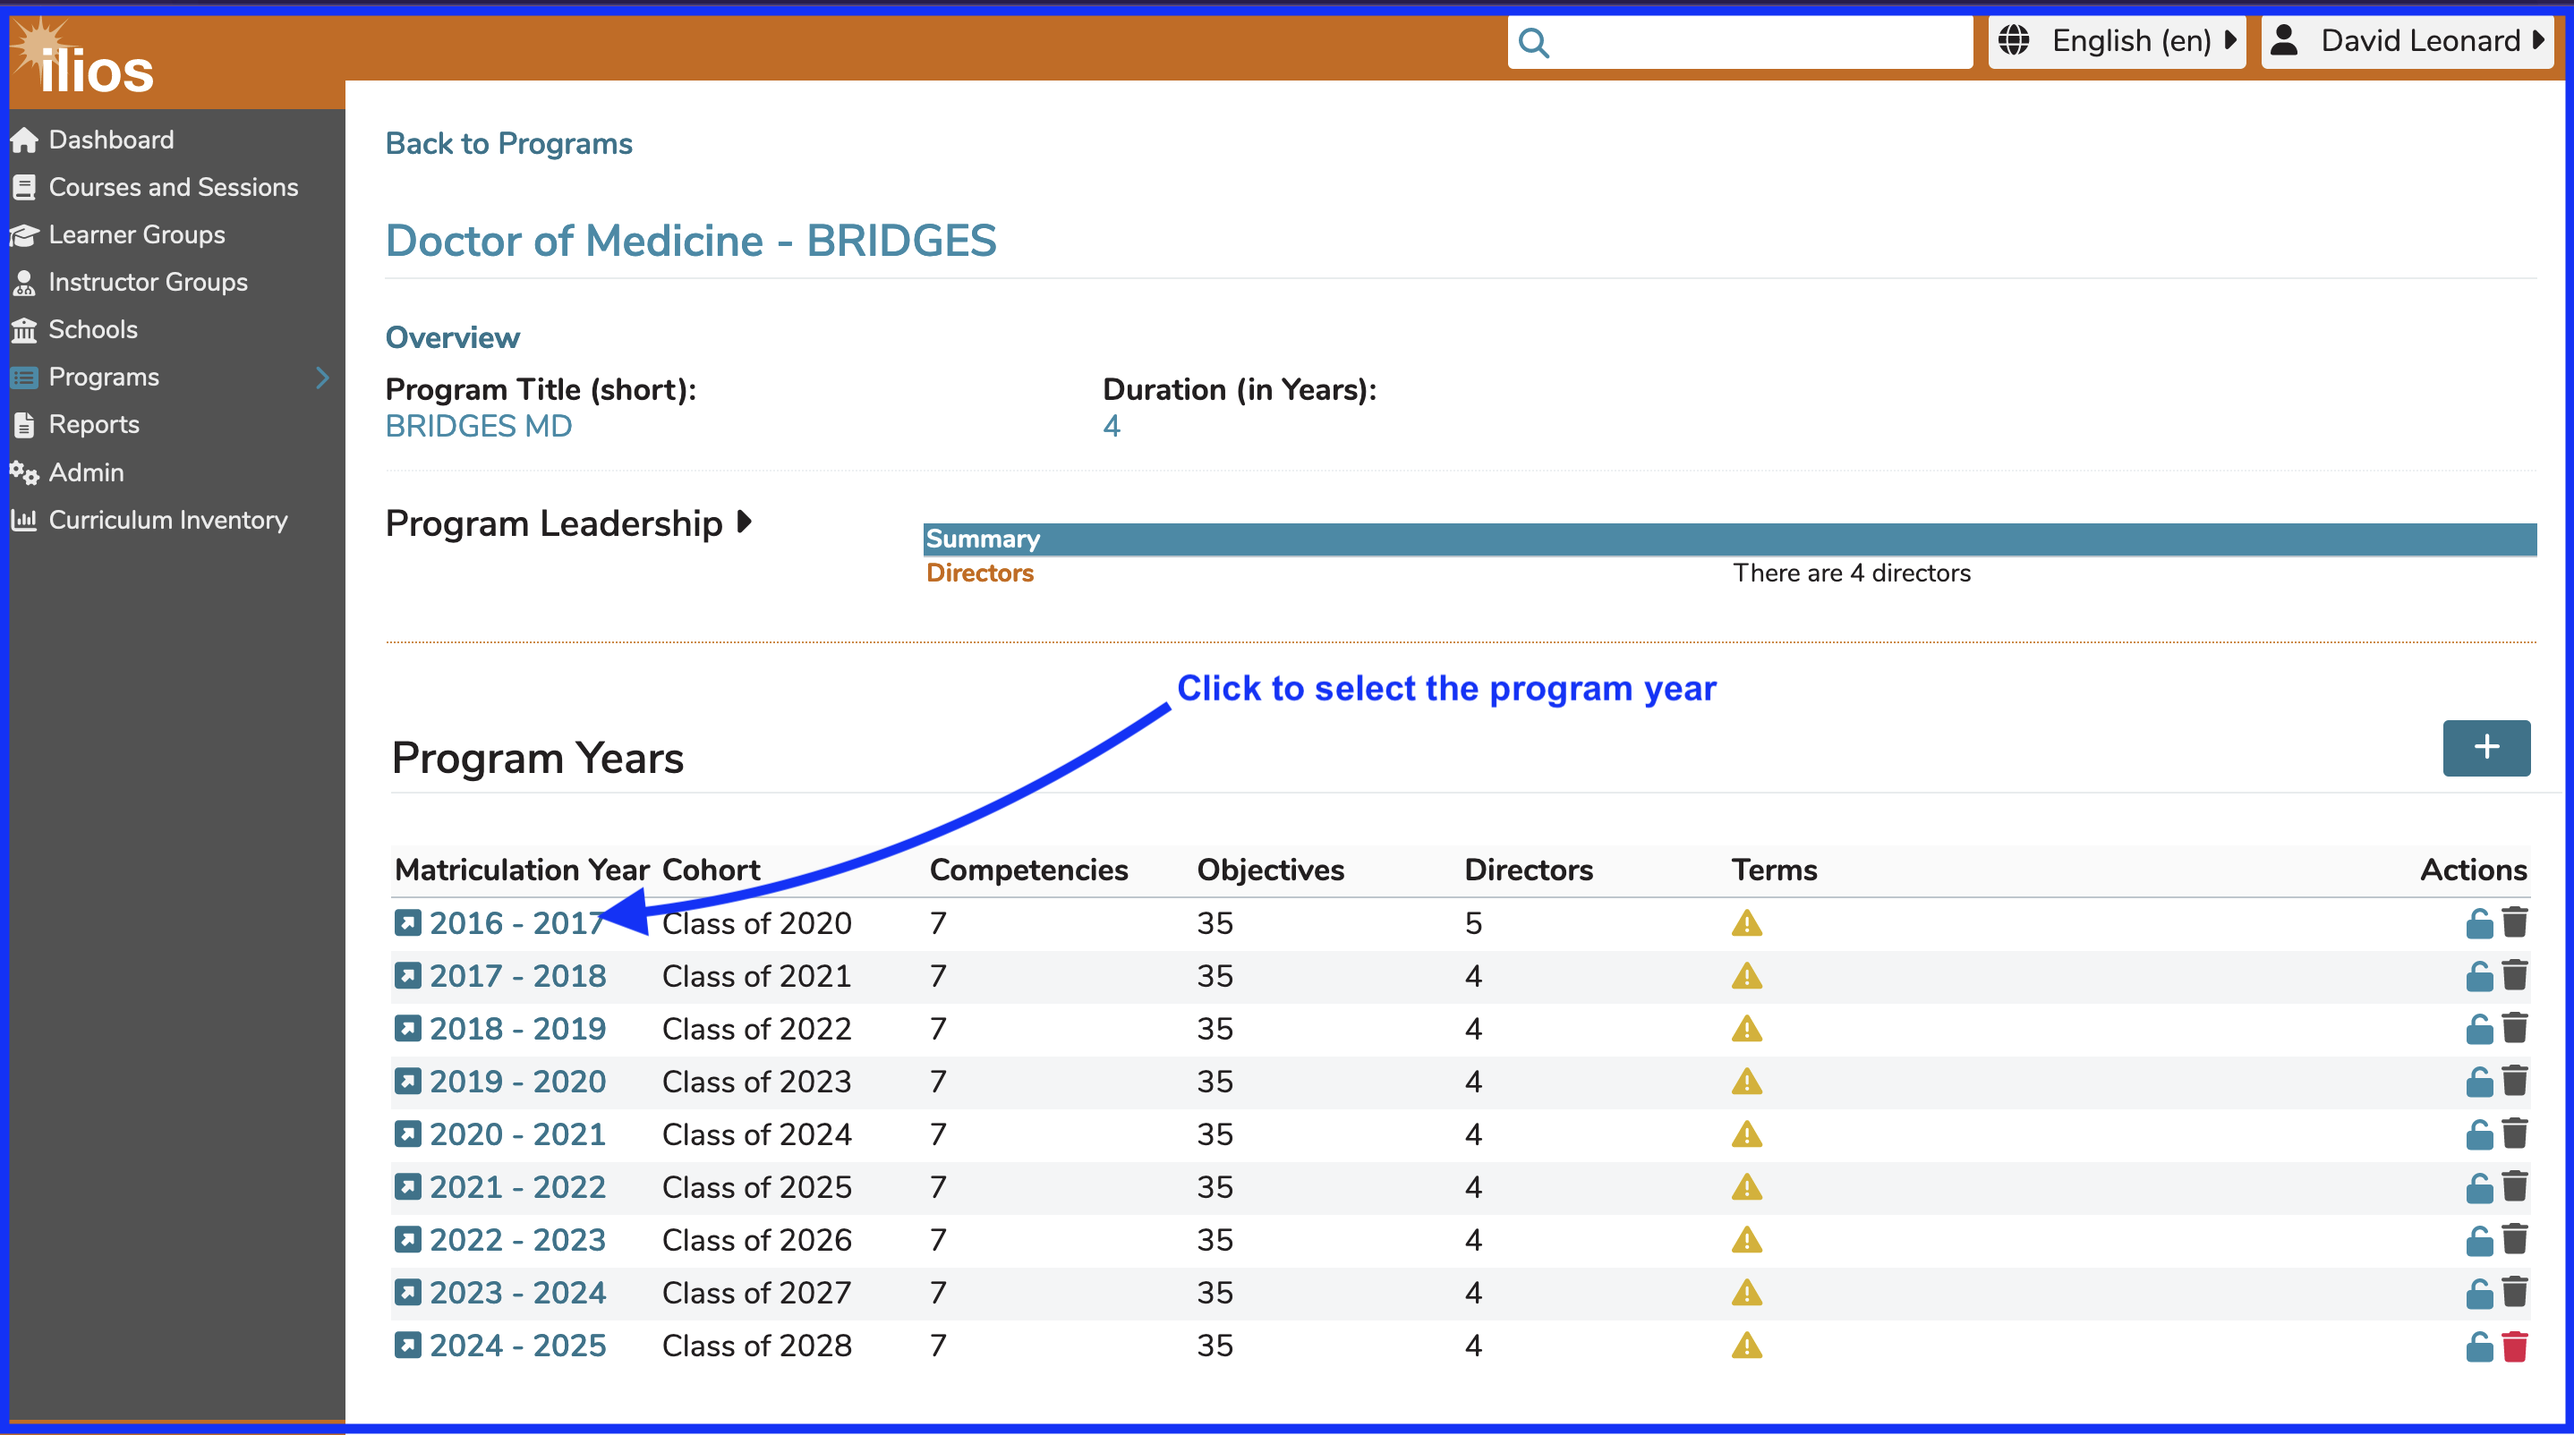
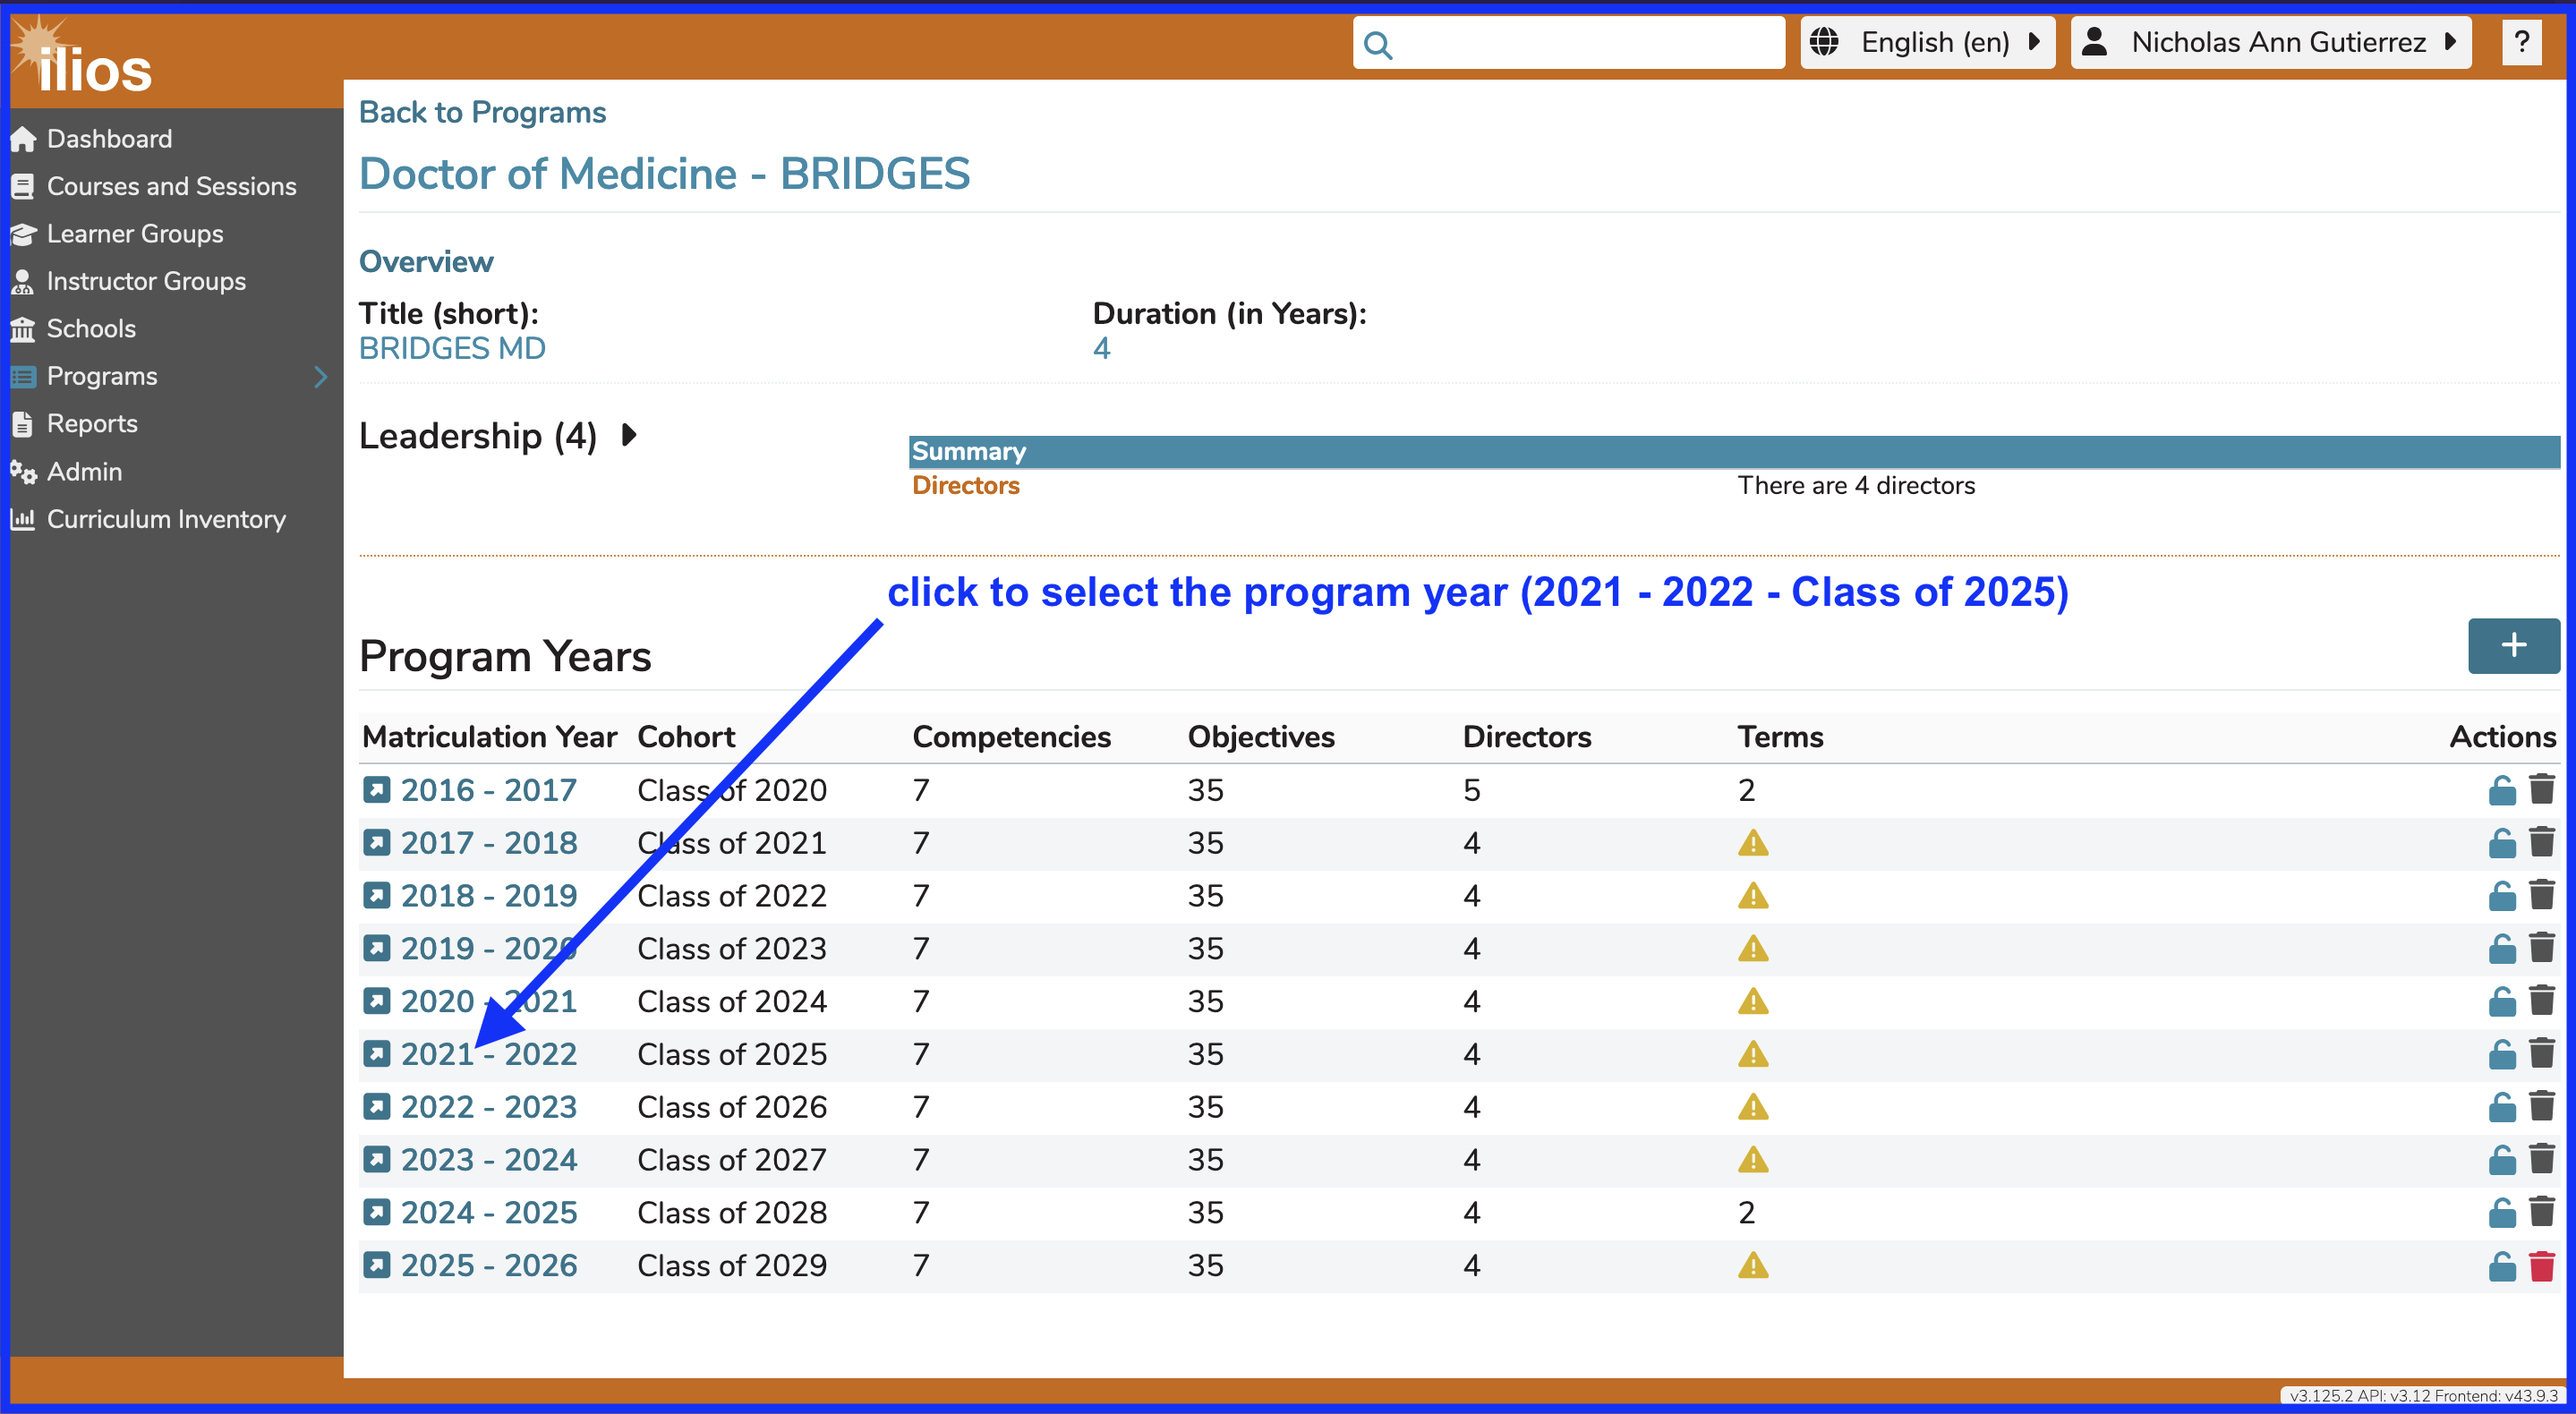
a bit of text update with one image replaced

diff --git a/programs/edit_program_year.md b/programs/edit_program_year.md
@@ -10,11 +10,11 @@ To start with, navigate to Programs and select a Program. In this case, "Doctor 
 
 ## Select Program Year
 
-For this example, and in order to show more detail in upcoming steps, Matriculation Year "2016-2017" with the Cohort of "Class of 2020" has been selected. At the time of this edit, those students will have recently graduated. This is useful in detailing Competency use throughout the student's educational trajectory. They will have already learned the Topics and Competencies on offer in the Program. Reporting out will provide more robust results.
+For this example, and in order to show more detail in upcoming steps, Matriculation Year "2021-2022" with the Cohort of "Class of 2025" has been selected. At the time of this edit, those students will have recently graduated. This is useful in detailing Competency use throughout the student's educational trajectory. They will have already learned the Topics and Competencies on offer in the Program. Reporting out will provide more robust results.
 
 ![select program year](../images/programs/program_years/select_program_year.png)
 
-Here is the resulting display after selecting "Class of 2020" as the Program Year. Editing a Program Year means utilizing the navigation shown below. 
+Here is the resulting display after selecting "Class of 2025" as the Program Year. Editing a Program Year means utilizing the navigation shown below. 
 
 ![program year detail](../images/programs/program_years/program_year_detail.png)
 
